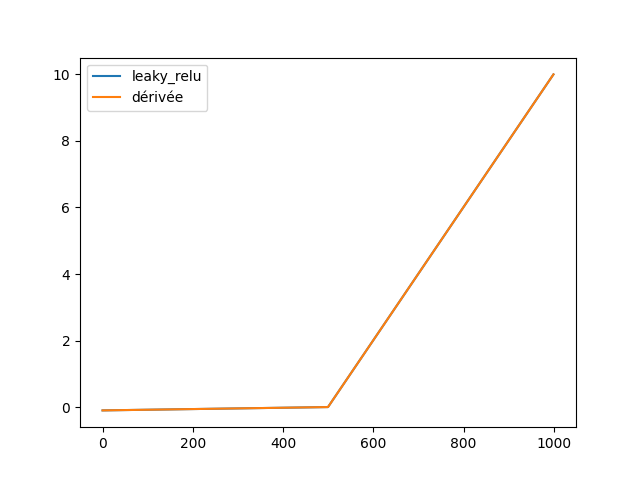
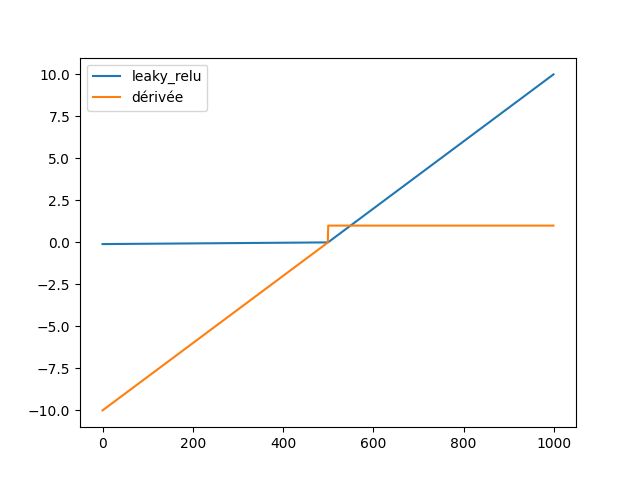
Màj rapport et fix perceptron simple

diff --git a/perceptron/activation_function.py b/perceptron/activation_function.py
@@ -30,9 +30,9 @@ class ActivationFunction:
         elif self.name == "tanh":
             return 1 - (np.exp(z)-np.exp(-z))**2 / (np.exp(z)+np.exp(-z))**2
         elif self.name == "relu":
-            return np.where(z < 0, 0, z)
+            return np.where(z < 0, 0, 1)
         elif self.name == "leaky_relu":
-            return np.where(z < 0, z*self.alpha, z)
+            return np.where(z < 0, z, 1)
         else:
             raise ValueError(f"Dérivée de '{self.name}' non définie.") 
 

diff --git a/perceptron/rapport.md b/perceptron/rapport.md
@@ -22,23 +22,34 @@
 L'apprentissage par gradient nécessite l'utilisation des dérivées or `heaviside` n'est pas dérivable. On est donc obligé de passer par la distribution de Dirac.
 
 2. Dans quels cas utiliser `sigmoid` ou `tahn` ?
-Sigmoid : obtenir une sortie binaire
-Tanh : classer les résultats entre -1 et 1
+On peut utiliser Sigmoid dans le cas où on souhaite obtenir une sortie binaire.
+On peut utiliser Tanh si on souhaite classer les résultats entre -1 et 1.
 
 3. Pourquoi `relu` est-elle si populaire dans les réseaux profonds ?
 
+Elle est moins coûteuse à calculer car on ne retrouve pas d'exponentielles comme avec `sigmoid` et `tahn`.
+De plus, elle annule toutes les valeurs négatives.
+
 4. Quel est l'avantage de `leaky relu` ?
+
+Elle laisse passer les valeurs négatives, contrairement à `relu`.
 
 ## Partie 2 - Apprentissage du perceptron
 
 ### Exercice 3
 
 1 & 2. Que se passe t-il si `n` est trop grand ? Et s'il est trop petit ?
-Si `n` est trop grand, cela va corriger les poids trop rapidement. S'il est trop petit, cela ne va pas suffisament corriger les poids.
+Si `n` est trop grand, cela va corriger les poids trop rapidement. 
+
+S'il est trop petit, cela ne va pas suffisament corriger les poids. Le modèle va donc apprendre lentement et il faudra plus d'itérations.
 
 3. Existe t-il une valeur idéale de `n` ?
 
+Je pense qu'il ne doit pas exister de valeur universelle idéale pour tous les cas. La valeur de `n` doit être choisie selon chaque cas, j'imagine.
+
 4. Peut-on faire varier `n` au cours du temps ?
+
+Je ne vois pas ce qui nous empêcherait de le faire.
 
 5. Quelle stratégie pouvez vous imaginer ?
 
